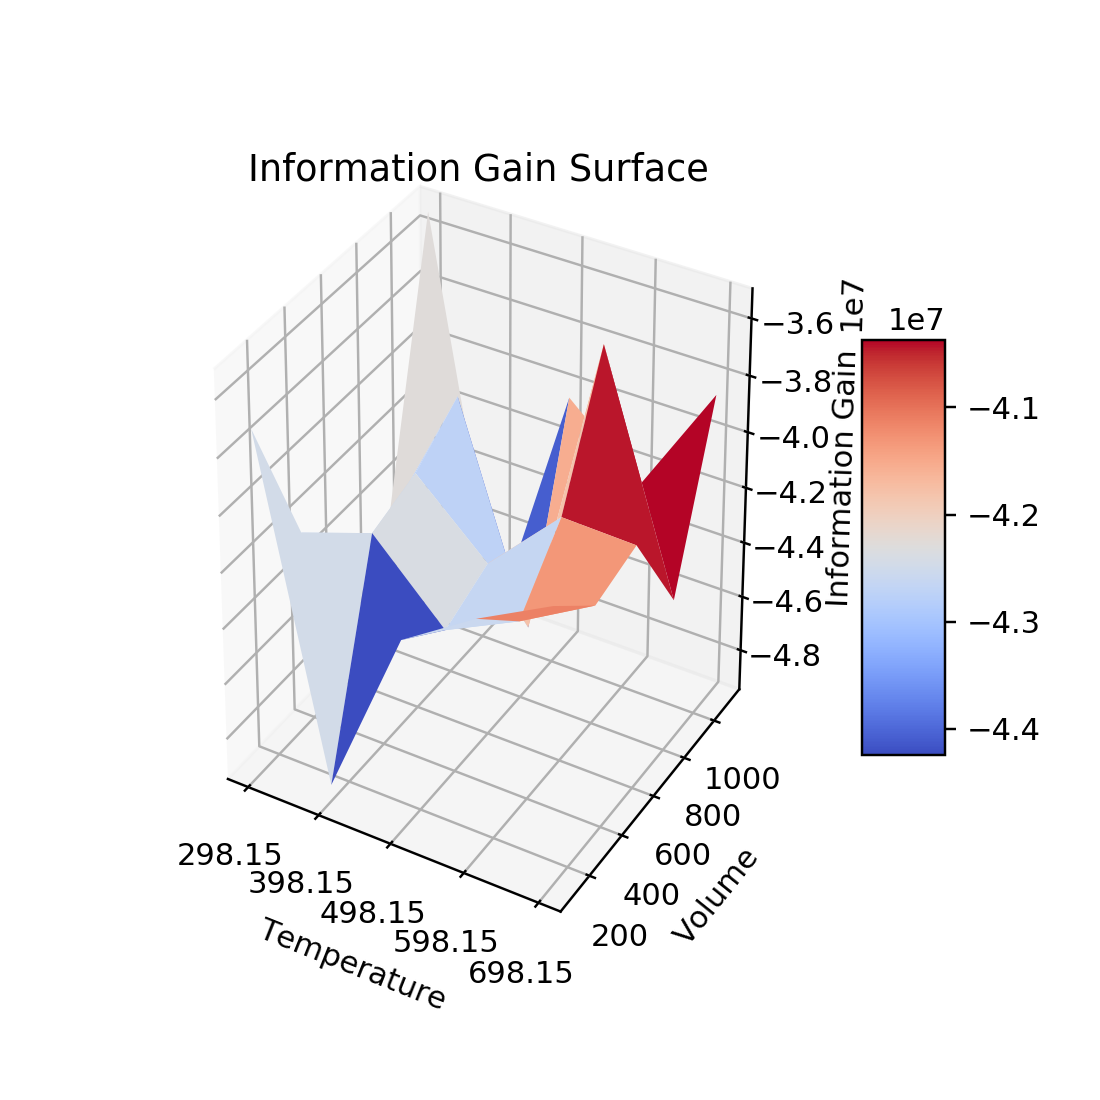
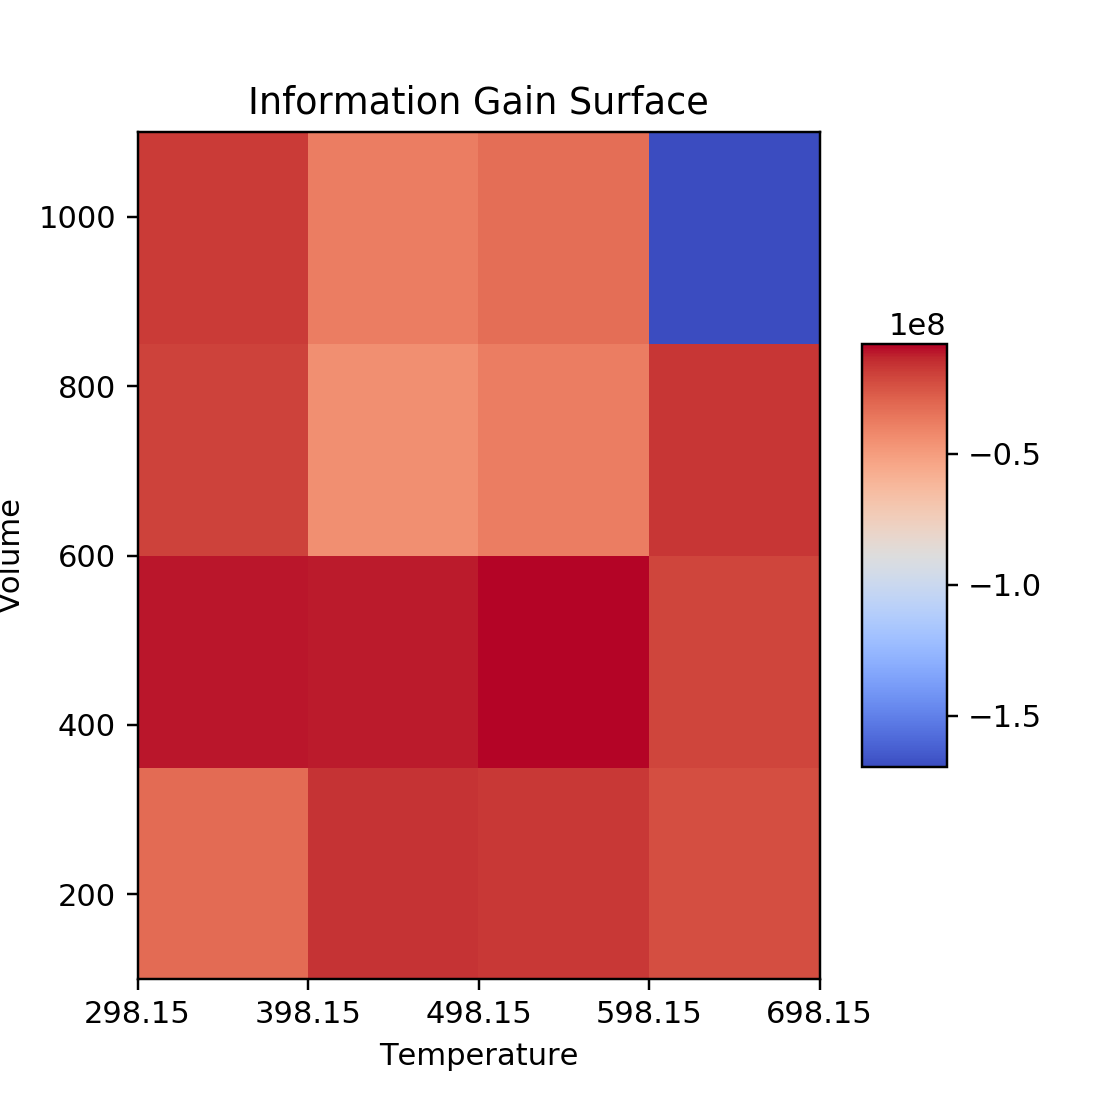
Example 2 subfolder of prior and posterior hist's

diff --git a/Examples/Example12/check_km_spread_influence_on_FA.py b/Examples/Example12/check_km_spread_influence_on_FA.py
@@ -1,0 +1,127 @@
+import matplotlib
+import matplotlib.pyplot as plt
+from matplotlib.ticker import FormatStrFormatter
+import numpy as np
+import scipy
+from scipy.integrate import odeint
+import sys; sys.path.append('../../');  import CheKiPEUQ as CKPQ
+import CheKiPEUQ.UserInput as UserInput
+
+if __name__ == "__main__":
+    
+    observed_data_Filename = 'ExperimentalDataAcetaldehydeTPDCeO2111MullinsTruncatedConstantErrors.csv'
+    
+    import processing_function_mem_reactor_km_only as fun
+
+    UserInput.responses['responses_observed_uncertainties'] = 0.01
+    
+    UserInput.simulated_response_plot_settings['x_label'] = r'$reactor outlet$'
+    UserInput.simulated_response_plot_settings['y_label'] = r'$ln(C_A)i$'
+    #UserInput.simulated_response_plot_settings['y_range'] = [0.00, 0.025] #optional.
+    UserInput.simulated_response_plot_settings['figure_name'] = 'Posterior_Example12' #This creates the filename, also.
+
+    UserInput.model['parameterNamesAndMathTypeExpressionsDict'] = {'delta_G':r'$\deltaG (eV)$'}
+    UserInput.model['InputParameterPriorValues'] = [1e-3] # eV
+    UserInput.model['InputParametersPriorValuesUncertainties'] = [1e-4] #If user wants to use a prior with covariance, then this must be a 2D array/ list. To assume no covariance, a 1D  This is a standard deviation!
+    UserInput.model['InputParameterInitialGuess'] = [1e-3] #This is where the mcmc chain will start.
+    #InputParameterInitialValues = [41.5, 41.5, 13.0, 13.0, 0.1, 0.1] # Ea1_mean, Ea2_mean, log_A1_mean, log_A2_mean, gamma_1_mean, gamma_2_mean 
+    
+    #InputParametersInitialValuesUncertainties = [200, 200, 13, 13, 0.1, 0.1] #If user wants to use a prior with covariance, then this must be a 2D array/ list. To assume no covariance, a 1D array can be used.
+    UserInput.model['simulateByInputParametersOnlyFunction'] = fun.mem_reactor #This must simulate with *only* the parameters listed above, and no other arguments.
+    #UserInput.model['simulationOutputProcessingFunction'] = processing_functions_tpd_odeint.no_log_wrapper_func #Optional: a function to process what comes out of the simulation Function and then return an observable vector.
+    
+    UserInput.parameter_estimation_settings['verbose'] = False 
+    UserInput.parameter_estimation_settings['checkPointFrequency'] = 100
+    UserInput.parameter_estimation_settings['mcmc'] = True 
+    UserInput.parameter_estimation_settings['mcmc_mode'] = 'unbiased'
+    UserInput.parameter_estimation_settings['mcmc_random_seed'] = None #Normally set to None so that mcmc is set to be random. To get the same results repeatedly, such as for testing purposes, set the random seed to 0 or another integer for testing purposes.
+    UserInput.parameter_estimation_settings['mcmc_burn_in'] = 100
+    UserInput.parameter_estimation_settings['mcmc_length'] = 10100
+    UserInput.parameter_estimation_settings['mcmc_relative_step_length'] = 0.0005
+    UserInput.parameter_estimation_settings['mcmc_modulate_accept_probability']  = 0 #Default value of 0. Changing this value sharpens or flattens the posterior. A value greater than 1 flattens the posterior by accepting low values more often. It can be useful when greater sampling is more important than accuracy. One way of using this feature is to try with a value of 0, then with the value equal to the number of priors for comparison, and then to gradually decrease this number as low as is useful (to minimize distortion of the result). A downside of changing changing this variable to greater than 1 is that it slows the the ascent to the maximum of the prior, so there is a balance in using it. In contrast, numbers increasingly less than one (such as 0.90 or 0.10) will speed up the ascent to the maximum of the posterior, but will also result in fewer points being retained.
+    
+    UserInput.parameter_pairs_for_contour_plots = [[0, 0]]
+    UserInput.contour_settings_custom['contours_normalized'] = False
+    UserInput.contour_settings_custom['figure_name'] = 'Mumpce_contour_plot_mem_reactor'
+    #After making the UserInput, now we make a 'parameter_estimation' object from it.
+    global T
+    global volume
+    global F0
+    global P0
+    global R
+    global kB
+    global k_1
+    global k_minus_1
+    kB = 8.61733035E-5 #eV/K\n
+    k_1 = 1e2
+    k_minus_1 = 1
+    k_m = 10
+    F0 = np.array([5, 0])
+    temperatures = np.linspace(298.15,698.15,5)
+    volumes = np.linspace(100,1100,5)
+
+    list_of_km = [1e3, 2e3, 3e3]
+    flow_rates_a=[]
+    for v in volumes:
+        for t in temperatures:
+            for km in list_of_km:
+                sol = odeint(fun.cmr, F0, np.linspace(0,v,50), args=(k_1,k_minus_1,km,t))
+                conc_sol_last=sol[-1,0].T
+                flow_rates_a.append(conc_sol_last)
+                print('T: ',t)
+                print('V: ',v)
+                print('km: ',km)
+                print('conc_sol_last',conc_sol_last, '\n')
+
+'''
+    fig = plt.figure(figsize = (5,5))
+    ax = fig.add_subplot(111, projection='3d')
+    TT, V = np.meshgrid(temperatures, volumes)
+    flow_rates_a=np.asarray(flow_rates_a)
+    FRA = flow_rates_a.reshape(TT.shape)
+    surf = ax.plot_surface(TT,V,FRA,cmap=matplotlib.cm.coolwarm)
+    ax.set_xlabel('Temperature')
+    ax.set_ylabel('Volume')
+    ax.set_zlabel('Flow Rate')
+    ax.set_title('Surface Plot of F_A')
+    fig.colorbar(surf, shrink=0.5, aspect=5)
+    fig.savefig('synthetic_observables.png',dpi=220)
+
+    fun.k_1 = 1e2
+    fun.k_minus_1 = 1
+    prior = np.random.normal(1e-3,1e-4,10000)
+    info_gains=[]
+    PE_object_list = []
+    for v in volumes:
+        for t in temperatures:
+            sol = odeint(fun.cmr, F0, np.linspace(0,v,50), args=(k_1,k_minus_1,k_m,t))
+            conc_sol_last=sol[-1,0].T
+            print('conc_sol_last',conc_sol_last)
+            UserInput.responses['responses_observed'] = conc_sol_last
+            PE_object_list.append(CKPQ.parameter_estimation(UserInput))
+            fun.T = t
+            fun.volume = v
+            [map_parameter_set, muap_parameter_set, stdap_parameter_set, evidence, info_gain, samples, logP] = PE_object_list[-1].doMetropolisHastings()
+            info_gains.append(info_gain)
+            fig, ax = plt.subplots()
+            (density0,bins0,pathces0)=ax.hist([prior,PE_object_list[-1].post_burn_in_samples.flatten()],bins=100,label=['prior','posterior'],density=True)
+            ax.legend()
+            ax.set_ylabel('Probability density')
+            ax.set_title('Prior and Posterior Density Plot at T = {} (K) volume = {} cm^3'.format(str(t),str(v)))
+            fig.savefig('km_only_figures/prior_and_posterior_histogram_T_{}_V_{}.png'.format(str(t),str(v)), dpi=300)
+    fig,ax = plt.subplots(figsize=(5,5))
+    #ax = fig.add_subplot(111, projection='3d')
+    T, V = np.meshgrid(temperatures, volumes)
+    info_gains=np.asarray(info_gains)
+    IG = info_gains.reshape(T.shape)
+    surf = ax.pcolor(T,V,IG,cmap=matplotlib.cm.coolwarm)
+
+    ax.set_xlabel('Temperature')
+    ax.set_ylabel('Volume')
+    #ax.set_zlabel('Information Gain')
+    ax.set_xticks(temperatures)
+    ax.xaxis.set_major_formatter(FormatStrFormatter('%.2f'))
+    ax.set_title('Information Gain Surface')
+    fig.colorbar(surf, shrink=0.5, aspect=5) 
+    fig.savefig('info_gain_surface_mem_reactor.png', dpi=220)
+'''

diff --git a/Examples/Example12/runfile_Example12_km_only.py b/Examples/Example12/runfile_Example12_km_only.py
@@ -1,0 +1,119 @@
+import matplotlib
+import matplotlib.pyplot as plt
+from matplotlib.ticker import FormatStrFormatter
+import numpy as np
+import scipy
+from scipy.integrate import odeint
+import sys; sys.path.append('../../');  import CheKiPEUQ as CKPQ
+import CheKiPEUQ.UserInput as UserInput
+
+if __name__ == "__main__":
+    
+    observed_data_Filename = 'ExperimentalDataAcetaldehydeTPDCeO2111MullinsTruncatedConstantErrors.csv'
+    
+    import processing_function_mem_reactor_km_only as fun
+
+    UserInput.responses['responses_observed_uncertainties'] = 0.04
+    
+    UserInput.simulated_response_plot_settings['x_label'] = r'$reactor outlet$'
+    UserInput.simulated_response_plot_settings['y_label'] = r'$ln(C_A)i$'
+    #UserInput.simulated_response_plot_settings['y_range'] = [0.00, 0.025] #optional.
+    UserInput.simulated_response_plot_settings['figure_name'] = 'Posterior_Example12' #This creates the filename, also.
+
+    UserInput.model['parameterNamesAndMathTypeExpressionsDict'] = {'delta_G':r'$\deltaG (eV)$'}
+    UserInput.model['InputParameterPriorValues'] = [2e3] # eV
+    UserInput.model['InputParametersPriorValuesUncertainties'] = [1e3] #If user wants to use a prior with covariance, then this must be a 2D array/ list. To assume no covariance, a 1D  This is a standard deviation!
+    UserInput.model['InputParameterInitialGuess'] = [3e3] #This is where the mcmc chain will start.
+    #InputParameterInitialValues = [41.5, 41.5, 13.0, 13.0, 0.1, 0.1] # Ea1_mean, Ea2_mean, log_A1_mean, log_A2_mean, gamma_1_mean, gamma_2_mean 
+    
+    #InputParametersInitialValuesUncertainties = [200, 200, 13, 13, 0.1, 0.1] #If user wants to use a prior with covariance, then this must be a 2D array/ list. To assume no covariance, a 1D array can be used.
+    UserInput.model['simulateByInputParametersOnlyFunction'] = fun.mem_reactor #This must simulate with *only* the parameters listed above, and no other arguments.
+    #UserInput.model['simulationOutputProcessingFunction'] = processing_functions_tpd_odeint.no_log_wrapper_func #Optional: a function to process what comes out of the simulation Function and then return an observable vector.
+    
+    UserInput.parameter_estimation_settings['verbose'] = False 
+    UserInput.parameter_estimation_settings['checkPointFrequency'] = 100
+    UserInput.parameter_estimation_settings['mcmc'] = True 
+    UserInput.parameter_estimation_settings['mcmc_mode'] = 'unbiased'
+    UserInput.parameter_estimation_settings['mcmc_random_seed'] = None #Normally set to None so that mcmc is set to be random. To get the same results repeatedly, such as for testing purposes, set the random seed to 0 or another integer for testing purposes.
+    UserInput.parameter_estimation_settings['mcmc_burn_in'] = 100
+    UserInput.parameter_estimation_settings['mcmc_length'] = 10100
+    UserInput.parameter_estimation_settings['mcmc_relative_step_length'] = 0.05
+    UserInput.parameter_estimation_settings['mcmc_modulate_accept_probability']  = 0 #Default value of 0. Changing this value sharpens or flattens the posterior. A value greater than 1 flattens the posterior by accepting low values more often. It can be useful when greater sampling is more important than accuracy. One way of using this feature is to try with a value of 0, then with the value equal to the number of priors for comparison, and then to gradually decrease this number as low as is useful (to minimize distortion of the result). A downside of changing changing this variable to greater than 1 is that it slows the the ascent to the maximum of the prior, so there is a balance in using it. In contrast, numbers increasingly less than one (such as 0.90 or 0.10) will speed up the ascent to the maximum of the posterior, but will also result in fewer points being retained.
+    
+    UserInput.parameter_pairs_for_contour_plots = [[0, 0]]
+    UserInput.contour_settings_custom['contours_normalized'] = False
+    UserInput.contour_settings_custom['figure_name'] = 'Mumpce_contour_plot_mem_reactor'
+    #After making the UserInput, now we make a 'parameter_estimation' object from it.
+    global T
+    global volume
+    global F0
+    global P0
+    global R
+    global kB
+    global k_1
+    global k_minus_1
+    kB = 8.61733035E-5 #eV/K\n
+    k_1 = 1e2
+    k_minus_1 = 1
+    k_m = 3e3
+    F0 = np.array([5, 0])
+    temperatures = np.linspace(298.15,698.15,5)
+    volumes = np.linspace(100,1100,5)
+
+    flow_rates_a=[]
+    for v in volumes:
+        for t in temperatures:
+            sol = odeint(fun.cmr, F0, np.linspace(0,v,50), args=(k_1,k_minus_1,k_m,t))
+            conc_sol_last=sol[-1,0].T
+            flow_rates_a.append(conc_sol_last)
+
+    fig = plt.figure(figsize = (5,5))
+    ax = fig.add_subplot(111, projection='3d')
+    TT, V = np.meshgrid(temperatures, volumes)
+    flow_rates_a=np.asarray(flow_rates_a)
+    FRA = flow_rates_a.reshape(TT.shape)
+    surf = ax.plot_surface(TT,V,FRA,cmap=matplotlib.cm.coolwarm)
+    ax.set_xlabel('Temperature')
+    ax.set_ylabel('Volume')
+    ax.set_zlabel('Flow Rate')
+    ax.set_title('Surface Plot of F_A')
+    fig.colorbar(surf, shrink=0.5, aspect=5)
+    fig.savefig('synthetic_observables.png',dpi=220)
+
+    fun.k_1 = 1e2
+    fun.k_minus_1 = 1
+    prior = np.random.normal(2e3,1e3,10000)
+    info_gains=[]
+    PE_object_list = []
+    for v in volumes:
+        for t in temperatures:
+            sol = odeint(fun.cmr, F0, np.linspace(0,v,50), args=(k_1,k_minus_1,k_m,t))
+            conc_sol_last=sol[-1,0].T
+            print('conc_sol_last',conc_sol_last)
+            UserInput.responses['responses_observed'] = conc_sol_last
+            PE_object_list.append(CKPQ.parameter_estimation(UserInput))
+            fun.T = t
+            fun.volume = v
+            [map_parameter_set, muap_parameter_set, stdap_parameter_set, evidence, info_gain, samples, logP] = PE_object_list[-1].doMetropolisHastings()
+            info_gains.append(info_gain)
+            fig, ax = plt.subplots()
+            (density0,bins0,pathces0)=ax.hist([prior,PE_object_list[-1].post_burn_in_samples.flatten()],bins=100,label=['prior','posterior'],density=True)
+            ax.legend()
+            ax.set_ylabel('Probability density')
+            ax.set_title('Prior and Posterior Density Plot at T = {} (K) volume = {} cm^3'.format(str(t),str(v)))
+            fig.savefig('km_only_figures/prior_and_posterior_histogram_T_{}_V_{}.png'.format(str(t),str(v)), dpi=300)
+    fig,ax = plt.subplots(figsize=(5,5))
+    #ax = fig.add_subplot(111, projection='3d')
+    T, V = np.meshgrid(temperatures, volumes)
+    info_gains=np.asarray(info_gains)
+    IG = info_gains.reshape(T.shape)
+    surf = ax.pcolor(T,V,IG,cmap=matplotlib.cm.coolwarm)
+
+    ax.set_xlabel('Temperature')
+    ax.set_ylabel('Volume')
+    #ax.set_zlabel('Information Gain')
+    ax.set_xticks(temperatures)
+    ax.xaxis.set_major_formatter(FormatStrFormatter('%.2f'))
+    ax.set_title('Information Gain Surface')
+    fig.colorbar(surf, shrink=0.5, aspect=5) 
+    fig.savefig('info_gain_surface_mem_reactor.png', dpi=220)

diff --git a/Examples/Example12/processing_function_mem_reactor_km_only.py b/Examples/Example12/processing_function_mem_reactor_km_only.py
@@ -1,0 +1,35 @@
+import numpy as np
+from scipy.integrate import odeint
+global T
+global volume
+global F0
+global P0
+global R
+global k_1
+global k_minus_1
+T = 298.15
+volume = 1000
+F0 = np.array([5, 0])
+P0 = 1
+R = 82.057338
+k_1 = 1e2
+k_minus_1 = 1
+
+def cmr(theta,V,k_1,k_minus_1,k_B,T0):
+    F_A, F_B = theta
+    F_T = F_A + F_B
+    C_T0 = P0 / (R * T0)
+    C_A = C_T0 * F_A / F_T
+    C_B = C_T0 * F_B / F_T
+    r_A = k_1*C_A - k_minus_1*C_B
+    R_B = k_B*C_B
+    dFdV = [-r_A, r_A - R_B]
+    return dFdV
+
+def mem_reactor(sample):
+    sol = odeint(cmr, F0, np.linspace(0,volume,2), args=(k_1, k_minus_1, sample, T))
+    conc_sol_last=sol[-1,:].T 
+    print('km',sample)
+    print('F_A',conc_sol_last[0])
+    return(conc_sol_last[0])
+
